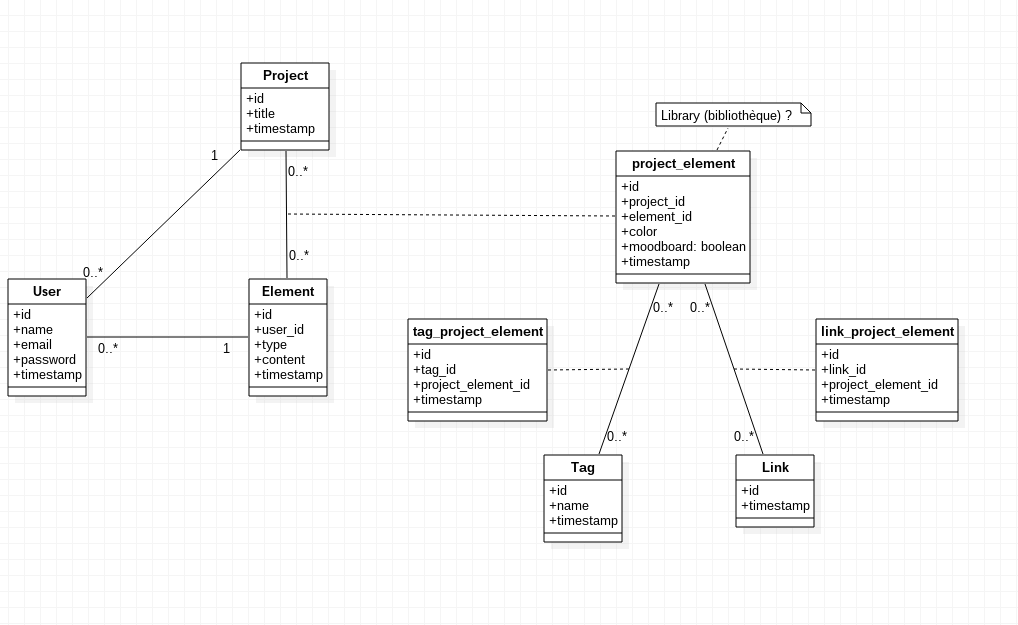
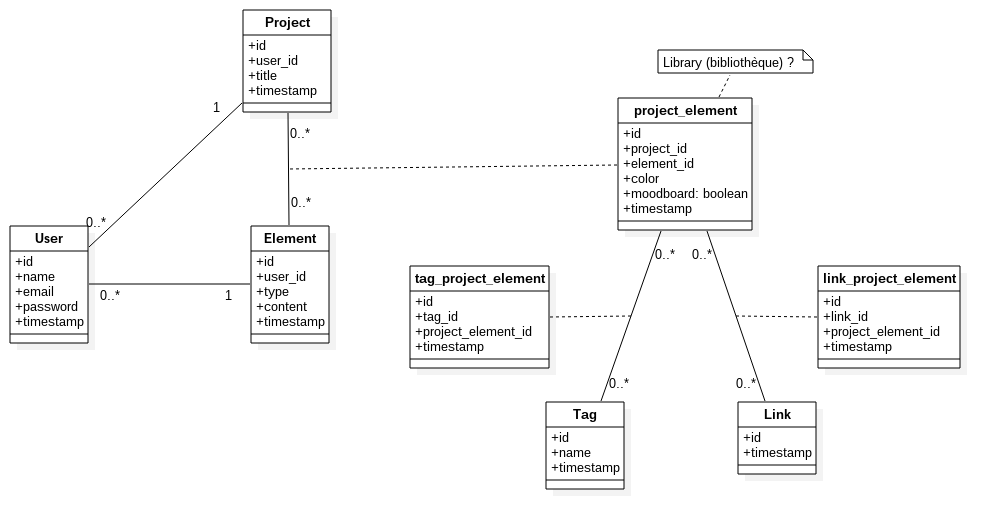
mise en place bdd

diff --git a/README.md b/README.md
@@ -120,6 +120,8 @@ accéder aux fonctionnalités gratuites de l'outil.
 
 + **us 4.6.** > En tant qu'**utilisatrice**, je peux organiser mon espace de travail (moodboard) en reliant entre eux les éléments affichés. Cela me permet de matérialiser visuellement les liens entre mes idées.
 
++ **us 4.7.** > En tant qu'**utilisatrice**, je peux organiser mon espace de travail (moodboard) en reliant entre eux les éléments affichés. Cela me permet de matérialiser visuellement les liens entre mes idées.
+
 
 ##### lot 5. > Partage
 
@@ -178,4 +180,5 @@ Les versions suivantes pourront ensuite inclure, par ordre de priorité,  ... :
 + le lot **9.**
 + la complétion du lot **8.**
 + la complétion du lot **3.**
+
 

diff --git a/documentation/mpd.md b/documentation/mpd.md
@@ -1,0 +1,27 @@
+# Modèle Physique de Données
+
+### User
++ id: INTEGER NOT NULL [PK]
++ name: VARCHAR
++ email: VARCHAR
++ password: VARCHAR
++ timestamp
+
+### Project
++ id: INTEGER NOT NULL [PK]
++ user_id:  INTEGER NOT NULL [FK]
++ title: VARCHAR
++ timestamp
+
+### Element
++ id: INTEGER NOT NULL [PK]
++ user_id:  INTEGER NOT NULL [FK]
++ type: VARCHAR ?
++ content: ???
++ timestamp
+
+### project_element
++ id:  INTEGER NOT NULL [PK]
++ project_id:  INTEGER NOT NULL [FK]
++ element_id:  INTEGER NOT NULL [FK]
++ timestamp

diff --git a/documentation/questionnements_bdd.md b/documentation/questionnements_bdd.md
@@ -1,0 +1,16 @@
+# Base de Donnée
+
+## created_at / updated_at / deleted_at
+
+besoin d'une colonne updated_at ? current_time ou null ?
+
+besoin d'une colonne deleted_at ? (null)
+
+## valeur par défaut
+
+Project title : Tel que défini : Quel nom ? ( new project, new mindmap, ... ? )
+
+## classes & attributs
+
+Class Project : ajouter un attribut description ?
+
